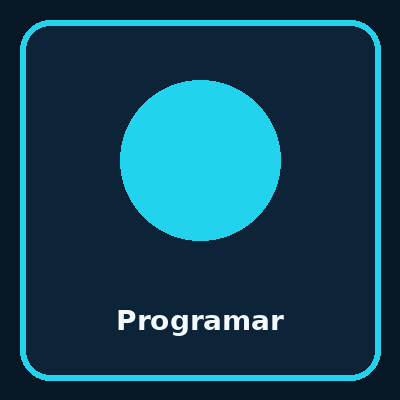
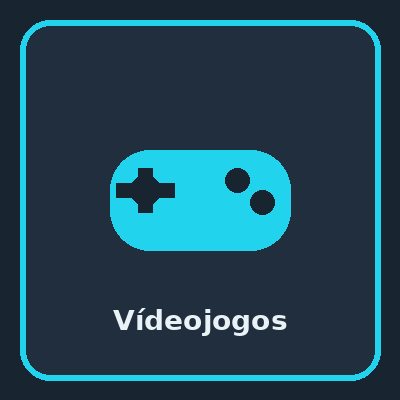
Add files via upload

Changed region(s): [[0.27, 0.18, 0.75, 0.63], [0.27, 0.75, 0.72, 0.84], [0.54, 0.42, 0.63, 0.48]]

diff --git a/meu-curriculo/index.html b/meu-curriculo/index.html
@@ -47,21 +47,21 @@
     <!-- ===================== SECÇÃO HERO: apresentação pessoal ===================== -->
     <section class="container hero">
       <!-- Bloco de texto do hero: nome, tagline, descrição e chamadas para ação -->
-      <div class="hero-text animate-in">
+      <div class="hero-text">
         <!-- Rótulo pequeno acima do título (categoria/função) -->
-        <span class="eyebrow">Estudante &amp; Programador Web</span>
+        <span class="eyebrow eyebrow-typewriter tw-w28">Estudante &amp; Programador Web</span>
         <!-- h1 único da página, obrigatório para hierarquia de headings coerente -->
-        <h1>Olá, sou o Denilson.</h1>
+        <h1 class="animate-in delay-1">Olá, sou o Denilson.</h1>
         <!-- Frase de efeito ("tagline") pedida no enunciado -->
-        <p class="tagline">"Construo software a pensar em quem o vai usar — em Moçambique e além."</p>
+        <p class="tagline animate-in delay-2">"Construo software a pensar em quem o vai usar — em Moçambique e além."</p>
         <!-- Breve descrição de competências -->
-        <p class="lede">
+        <p class="lede animate-in delay-3">
           Estudante do 2º ano de Programação e Design Web na Universidade Licungo (Beira),
           apaixonado por transformar problemas do dia a dia em aplicações desktop e web funcionais,
           desde sistemas em JavaFX até plataformas web construídas do zero em HTML, CSS e JavaScript.
         </p>
         <!-- Lista não ordenada de competências, estilizada como "pills"/etiquetas via CSS -->
-        <ul class="quick-skills">
+        <ul class="quick-skills animate-in delay-4">
           <li>Java / JavaFX</li>
           <li>HTML5 &amp; CSS3</li>
           <li>JavaScript</li>
@@ -69,7 +69,7 @@
           <li>Git &amp; GitHub</li>
         </ul>
         <!-- Botões de destaque ("call to action"): o principal leva à página de Contacto, como pede o enunciado -->
-        <div class="hero-actions">
+        <div class="hero-actions animate-in delay-5">
           <a href="contact.html" class="btn btn-primary"><i class="fa-solid fa-paper-plane"></i> Fale comigo</a>
           <a href="portfolio.html" class="btn btn-ghost"><i class="fa-solid fa-diagram-project"></i> Ver projetos</a>
         </div>
@@ -87,8 +87,8 @@
     <!-- ===================== SECÇÃO DE MULTIMÉDIA: vídeo local + áudio ===================== -->
     <section class="media-block">
       <div class="container">
-        <span class="eyebrow">Apresentação</span>
-        <h2>Como construí a minha primeira página, em vídeo</h2>
+        <span class="eyebrow animate-in">Apresentação</span>
+        <h2 class="animate-in delay-1">Como construí a minha primeira página, em vídeo</h2>
         <!-- Texto introdutório do bloco de vídeo/áudio; estilo inline pontual apenas para cor/margem, sem repetir regras do CSS externo -->
         <p class="section-intro">
           Abaixo, um vídeo (ficheiro local, com imagem de pré-visualização) mostrando o código
@@ -128,25 +128,25 @@
 
     <!-- ===================== SECÇÃO "Porquê trabalhar comigo": 3 cartões ===================== -->
     <section class="container section-compact-top">
-      <span class="eyebrow">Porquê trabalhar comigo</span>
-      <h2>Três coisas que levo para cada projeto</h2>
+      <span class="eyebrow animate-in">Porquê trabalhar comigo</span>
+      <h2 class="animate-in delay-1">Três coisas que levo para cada projeto</h2>
       <!-- Grelha de cartões (reaproveita a classe .portfolio-grid, definida com CSS Grid) -->
       <div class="portfolio-grid">
         <!-- Cada <article> representa um conteúdo independente/autónomo (um argumento), daí o uso semântico de <article> -->
-        <article class="card animate-in">
+        <article class="card animate-in delay-2">
           <div class="card-body">
             <!-- Ícone Font Awesome com cor definida via variável CSS -->
             <h3><i class="fa-solid fa-code icon-teal"></i> Código organizado</h3>
             <p>HTML semântico, CSS estruturado e Java orientado a objetos — sempre pensando em quem lê o código depois de mim.</p>
           </div>
         </article>
-        <article class="card animate-in">
+        <article class="card animate-in delay-3">
           <div class="card-body">
             <h3><i class="fa-solid fa-people-group icon-gold"></i> Contexto local</h3>
             <p>Projetos pensados para a realidade moçambicana: legislação laboral, mobile money, ligação intermitente.</p>
           </div>
         </article>
-        <article class="card animate-in">
+        <article class="card animate-in delay-4">
           <div class="card-body">
             <h3><i class="fa-solid fa-arrows-rotate icon-red"></i> Iteração constante</h3>
             <p>Entrego versões funcionais cedo e melhoro com feedback, em vez de perseguir a perfeição de uma só vez.</p>

diff --git a/meu-curriculo/hobbies.html b/meu-curriculo/hobbies.html
@@ -36,9 +36,9 @@
     <!-- ===================== FAIXA DE TÍTULO DA PÁGINA ===================== -->
     <div class="page-banner">
       <div class="container">
-        <span class="eyebrow">Fora do código</span>
-        <h1>Hobbies &amp; interesses</h1>
-        <p>O que gosto de fazer quando não estou a programar.</p>
+        <span class="eyebrow eyebrow-typewriter tw-w15">Fora do código</span>
+        <h1 class="animate-in delay-1">Hobbies &amp; interesses</h1>
+        <p class="animate-in delay-2">O que gosto de fazer quando não estou a programar.</p>
       </div>
     </div>
 
@@ -49,28 +49,28 @@
         <div class="hobbies-flex">
           <!-- Cada hobby é um <article>, com imagem ilustrativa (alt descritivo), título com ícone e breve descrição -->
           <article class="card hobby-card animate-in">
-            <img src="assets/img/hobby1.png" alt="Ilustração representando programação como hobby" width="400" height="400">
-            <h3><i class="fa-solid fa-laptop-code icon-teal"></i> Programar por prazer</h3>
-            <p class="hobby-desc">Pequenos projetos pessoais fora das disciplinas, só para aprender algo novo.</p>
+            <img src="assets/img/hobby1.png" alt="Ilustração representando vídeojogos como hobby" width="400" height="400">
+            <h3><i class="fa-solid fa-gamepad icon-teal"></i> Vídeojogos</h3>
+            <p class="hobby-desc">Jogar online e offline com amigos — a forma que encontro de desligar do código ao fim do dia.</p>
           </article>
 
-          <article class="card hobby-card animate-in">
-            <img src="assets/img/hobby2.png" alt="Ilustração representando futebol como hobby" width="400" height="400">
-            <h3><i class="fa-solid fa-futbol icon-gold"></i> Futebol</h3>
-            <p class="hobby-desc">Jogos com amigos ao fim de semana — ótimo para desligar do ecrã.</p>
+          <article class="card hobby-card animate-in delay-1">
+            <img src="assets/img/hobby2.png" alt="Ilustração representando sair com amigos como hobby" width="400" height="400">
+            <h3><i class="fa-solid fa-people-group icon-gold"></i> Sair com amigos</h3>
+            <p class="hobby-desc">Convívios, cafés e passeios pela cidade — bom equilíbrio para o tempo passado à frente do ecrã.</p>
           </article>
 
-          <article class="card hobby-card animate-in">
+          <article class="card hobby-card animate-in delay-2">
             <img src="assets/img/hobby3.png" alt="Ilustração representando música como hobby" width="400" height="400">
             <h3><i class="fa-solid fa-music icon-red"></i> Música</h3>
             <p class="hobby-desc">Ouvir e descobrir artistas moçambicanos e internacionais enquanto codifico.</p>
           </article>
 
           <!-- Ícone com cor fixa (não usa variável CSS) apenas neste cartão, como variação intencional -->
-          <article class="card hobby-card animate-in">
-            <img src="assets/img/hobby4.png" alt="Ilustração representando leitura como hobby" width="400" height="400">
-            <h3><i class="fa-solid fa-book icon-indigo"></i> Leitura</h3>
-            <p class="hobby-desc">Livros de tecnologia e, de vez em quando, ficção para variar o ritmo.</p>
+          <article class="card hobby-card animate-in delay-3">
+            <img src="assets/img/hobby4.png" alt="Ilustração representando séries e filmes como hobby" width="400" height="400">
+            <h3><i class="fa-solid fa-film icon-indigo"></i> Séries &amp; filmes</h3>
+            <p class="hobby-desc">Maratonas de séries e filmes com os amigos, sobretudo aos fins de semana.</p>
           </article>
         </div>
       </div>

diff --git a/meu-curriculo/portfolio.html b/meu-curriculo/portfolio.html
@@ -36,9 +36,9 @@
     <!-- ===================== FAIXA DE TÍTULO DA PÁGINA ===================== -->
     <div class="page-banner">
       <div class="container">
-        <span class="eyebrow">Trabalhos</span>
-        <h1>Portfólio</h1>
-        <p>Uma seleção de projetos académicos, construídos em Java/JavaFX e em tecnologias web.</p>
+        <span class="eyebrow eyebrow-typewriter tw-w10">Trabalhos</span>
+        <h1 class="animate-in delay-1">Portfólio</h1>
+        <p class="animate-in delay-2">Uma seleção de projetos académicos, construídos em Java/JavaFX e em tecnologias web.</p>
       </div>
     </div>
 
@@ -60,7 +60,7 @@
             </div>
           </article>
 
-          <article class="card animate-in">
+          <article class="card animate-in delay-1">
             <img src="assets/img/projeto2.png" alt="Captura de ecrã do Nexus TCC, sistema de gestão de trabalhos de conclusão de curso, mostrando a lista de processos" width="800" height="500">
             <div class="card-body">
               <h3>Nexus TCC</h3>
@@ -69,7 +69,7 @@
             </div>
           </article>
 
-          <article class="card animate-in">
+          <article class="card animate-in delay-2">
             <img src="assets/img/projeto3.png" alt="Captura de ecrã do RH Moçambique, sistema de gestão de recursos humanos, mostrando a ficha de um colaborador" width="800" height="500">
             <div class="card-body">
               <h3>RH Moçambique</h3>
@@ -78,7 +78,7 @@
             </div>
           </article>
 
-          <article class="card animate-in">
+          <article class="card animate-in delay-3">
             <img src="assets/img/projeto4.png" alt="Captura de ecrã do ZapConta, conceito de aplicação de gestão financeira com bot de WhatsApp" width="800" height="500">
             <div class="card-body">
               <h3>ZapConta</h3>
@@ -94,8 +94,8 @@
     <!-- ===================== SECÇÃO: vídeo de demonstração incorporado via YouTube ===================== -->
     <section class="media-block">
       <div class="container">
-        <span class="eyebrow">Demonstração</span>
-        <h2>Vídeo de demonstração (incorporado via YouTube)</h2>
+        <span class="eyebrow animate-in">Demonstração</span>
+        <h2 class="animate-in delay-1">Vídeo de demonstração (incorporado via YouTube)</h2>
         <p class="section-intro">
           Enquanto não gravo uma demo dos projetos acima, fica aqui um vídeo em português sobre
           HTML5 e CSS3 — do <em>Curso em Vídeo</em>, do professor Gustavo Guanabara — a título de

diff --git a/meu-curriculo/css/estilo.css b/meu-curriculo/css/estilo.css
@@ -1024,39 +1024,35 @@ textarea:not(:placeholder-shown):valid {
   white-space: nowrap;
   vertical-align: bottom;
   border-right: 3px solid var(--color-teal);
-  /* Anula o letter-spacing de .eyebrow: com espaçamento extra entre letras,
-     a largura em "ch" deixava de bater certo com o texto e cortava as
-     últimas letras. Sem letter-spacing, 1 caractere = 1ch de forma exata. */
-  letter-spacing: normal;
   animation: blink-caret 0.75s step-end infinite;
 }
 
 /* Uma largura (em "ch") e uma animação de "typing" por cada texto de
    .eyebrow existente no site — cada página usa a que corresponde ao
-   número de caracteres do seu texto (+ uma pequena margem de segurança) */
-.tw-w10 { width: 11ch; animation: typing-10 0.8s steps(11, end) forwards, blink-caret 0.75s step-end infinite; }
-.tw-w12 { width: 13ch; animation: typing-12 0.9s steps(13, end) forwards, blink-caret 0.75s step-end infinite; }
-.tw-w15 { width: 17ch; animation: typing-15 1s steps(17, end) forwards, blink-caret 0.75s step-end infinite; }
-.tw-w28 { width: 30ch; animation: typing-28 1.4s steps(30, end) forwards, blink-caret 0.75s step-end infinite; }
+   número de caracteres do seu texto */
+.tw-w10 { width: 10ch; animation: typing-10 0.8s steps(10, end) forwards, blink-caret 0.75s step-end infinite; }
+.tw-w12 { width: 12ch; animation: typing-12 0.9s steps(12, end) forwards, blink-caret 0.75s step-end infinite; }
+.tw-w15 { width: 15ch; animation: typing-15 1s steps(15, end) forwards, blink-caret 0.75s step-end infinite; }
+.tw-w28 { width: 28ch; animation: typing-28 1.4s steps(28, end) forwards, blink-caret 0.75s step-end infinite; }
 
 @keyframes typing-10 {
   from { width: 0; }
-  to { width: 11ch; }
+  to { width: 10ch; }
 }
 
 @keyframes typing-12 {
   from { width: 0; }
-  to { width: 13ch; }
+  to { width: 12ch; }
 }
 
 @keyframes typing-15 {
   from { width: 0; }
-  to { width: 17ch; }
+  to { width: 15ch; }
 }
 
 @keyframes typing-28 {
   from { width: 0; }
-  to { width: 30ch; }
+  to { width: 28ch; }
 }
 
 /* Cursor a piscar: alterna a cor da borda direita entre visível e transparente */

diff --git a/meu-curriculo/about.html b/meu-curriculo/about.html
@@ -45,10 +45,10 @@
     <!-- ===================== FAIXA DE TÍTULO DA PÁGINA ===================== -->
     <div class="page-banner">
       <div class="container">
-        <span class="eyebrow">Sobre mim</span>
+        <span class="eyebrow eyebrow-typewriter tw-w10">Sobre mim</span>
         <!-- h1 único desta página -->
-        <h1>Currículo</h1>
-        <p>Formação, competências técnicas e certificados até agora.</p>
+        <h1 class="animate-in delay-1">Currículo</h1>
+        <p class="animate-in delay-2">Formação, competências técnicas e certificados até agora.</p>
       </div>
     </div>
 
@@ -58,7 +58,7 @@
         <!-- Grelha de 2 colunas em ecrãs largos (texto à esquerda, certificados à direita) -->
         <div class="cv-grid">
           <div>
-            <h2>Formação académica</h2>
+            <h2 class="animate-in">Formação académica</h2>
             <!-- Lista ORDENADA (<ol>): mostra números 1, 2... — usada porque a formação segue uma ordem cronológica -->
             <ol class="cv-list timeline">
               <li>
@@ -100,7 +100,7 @@
     <!-- ===================== SECÇÃO: Tabela de competências técnicas ===================== -->
     <section>
       <div class="container">
-        <h2>Competências técnicas</h2>
+        <h2 class="animate-in">Competências técnicas</h2>
         <!-- Tabela com <thead>/<tbody>, exigida pelo enunciado; caption descreve o conteúdo da tabela para acessibilidade -->
         <table class="skills-table">
           <caption>Nível de proficiência autoavaliado por tecnologia</caption>

diff --git a/meu-curriculo/contact.html b/meu-curriculo/contact.html
@@ -36,9 +36,9 @@
     <!-- ===================== FAIXA DE TÍTULO DA PÁGINA ===================== -->
     <div class="page-banner">
       <div class="container">
-        <span class="eyebrow">Vamos falar</span>
-        <h1>Contacto</h1>
-        <p>Preencha o formulário abaixo para entrar em contacto comigo.</p>
+        <span class="eyebrow eyebrow-typewriter tw-w12">Vamos falar</span>
+        <h1 class="animate-in delay-1">Contacto</h1>
+        <p class="animate-in delay-2">Preencha o formulário abaixo para entrar em contacto comigo.</p>
       </div>
     </div>
 

diff --git a/meu-curriculo/README.md b/meu-curriculo/README.md
@@ -1,4 +1,4 @@
-# DENILSON SANSAO UATE
+# Site de Currículo Pessoal — meu-curriculo
 
 **Estudante:** Denilson Uate
 **Turma:** 2º Ano — Programação e Design Web, Universidade Licungo (Faculdade de Ciências e Tecnologia)
